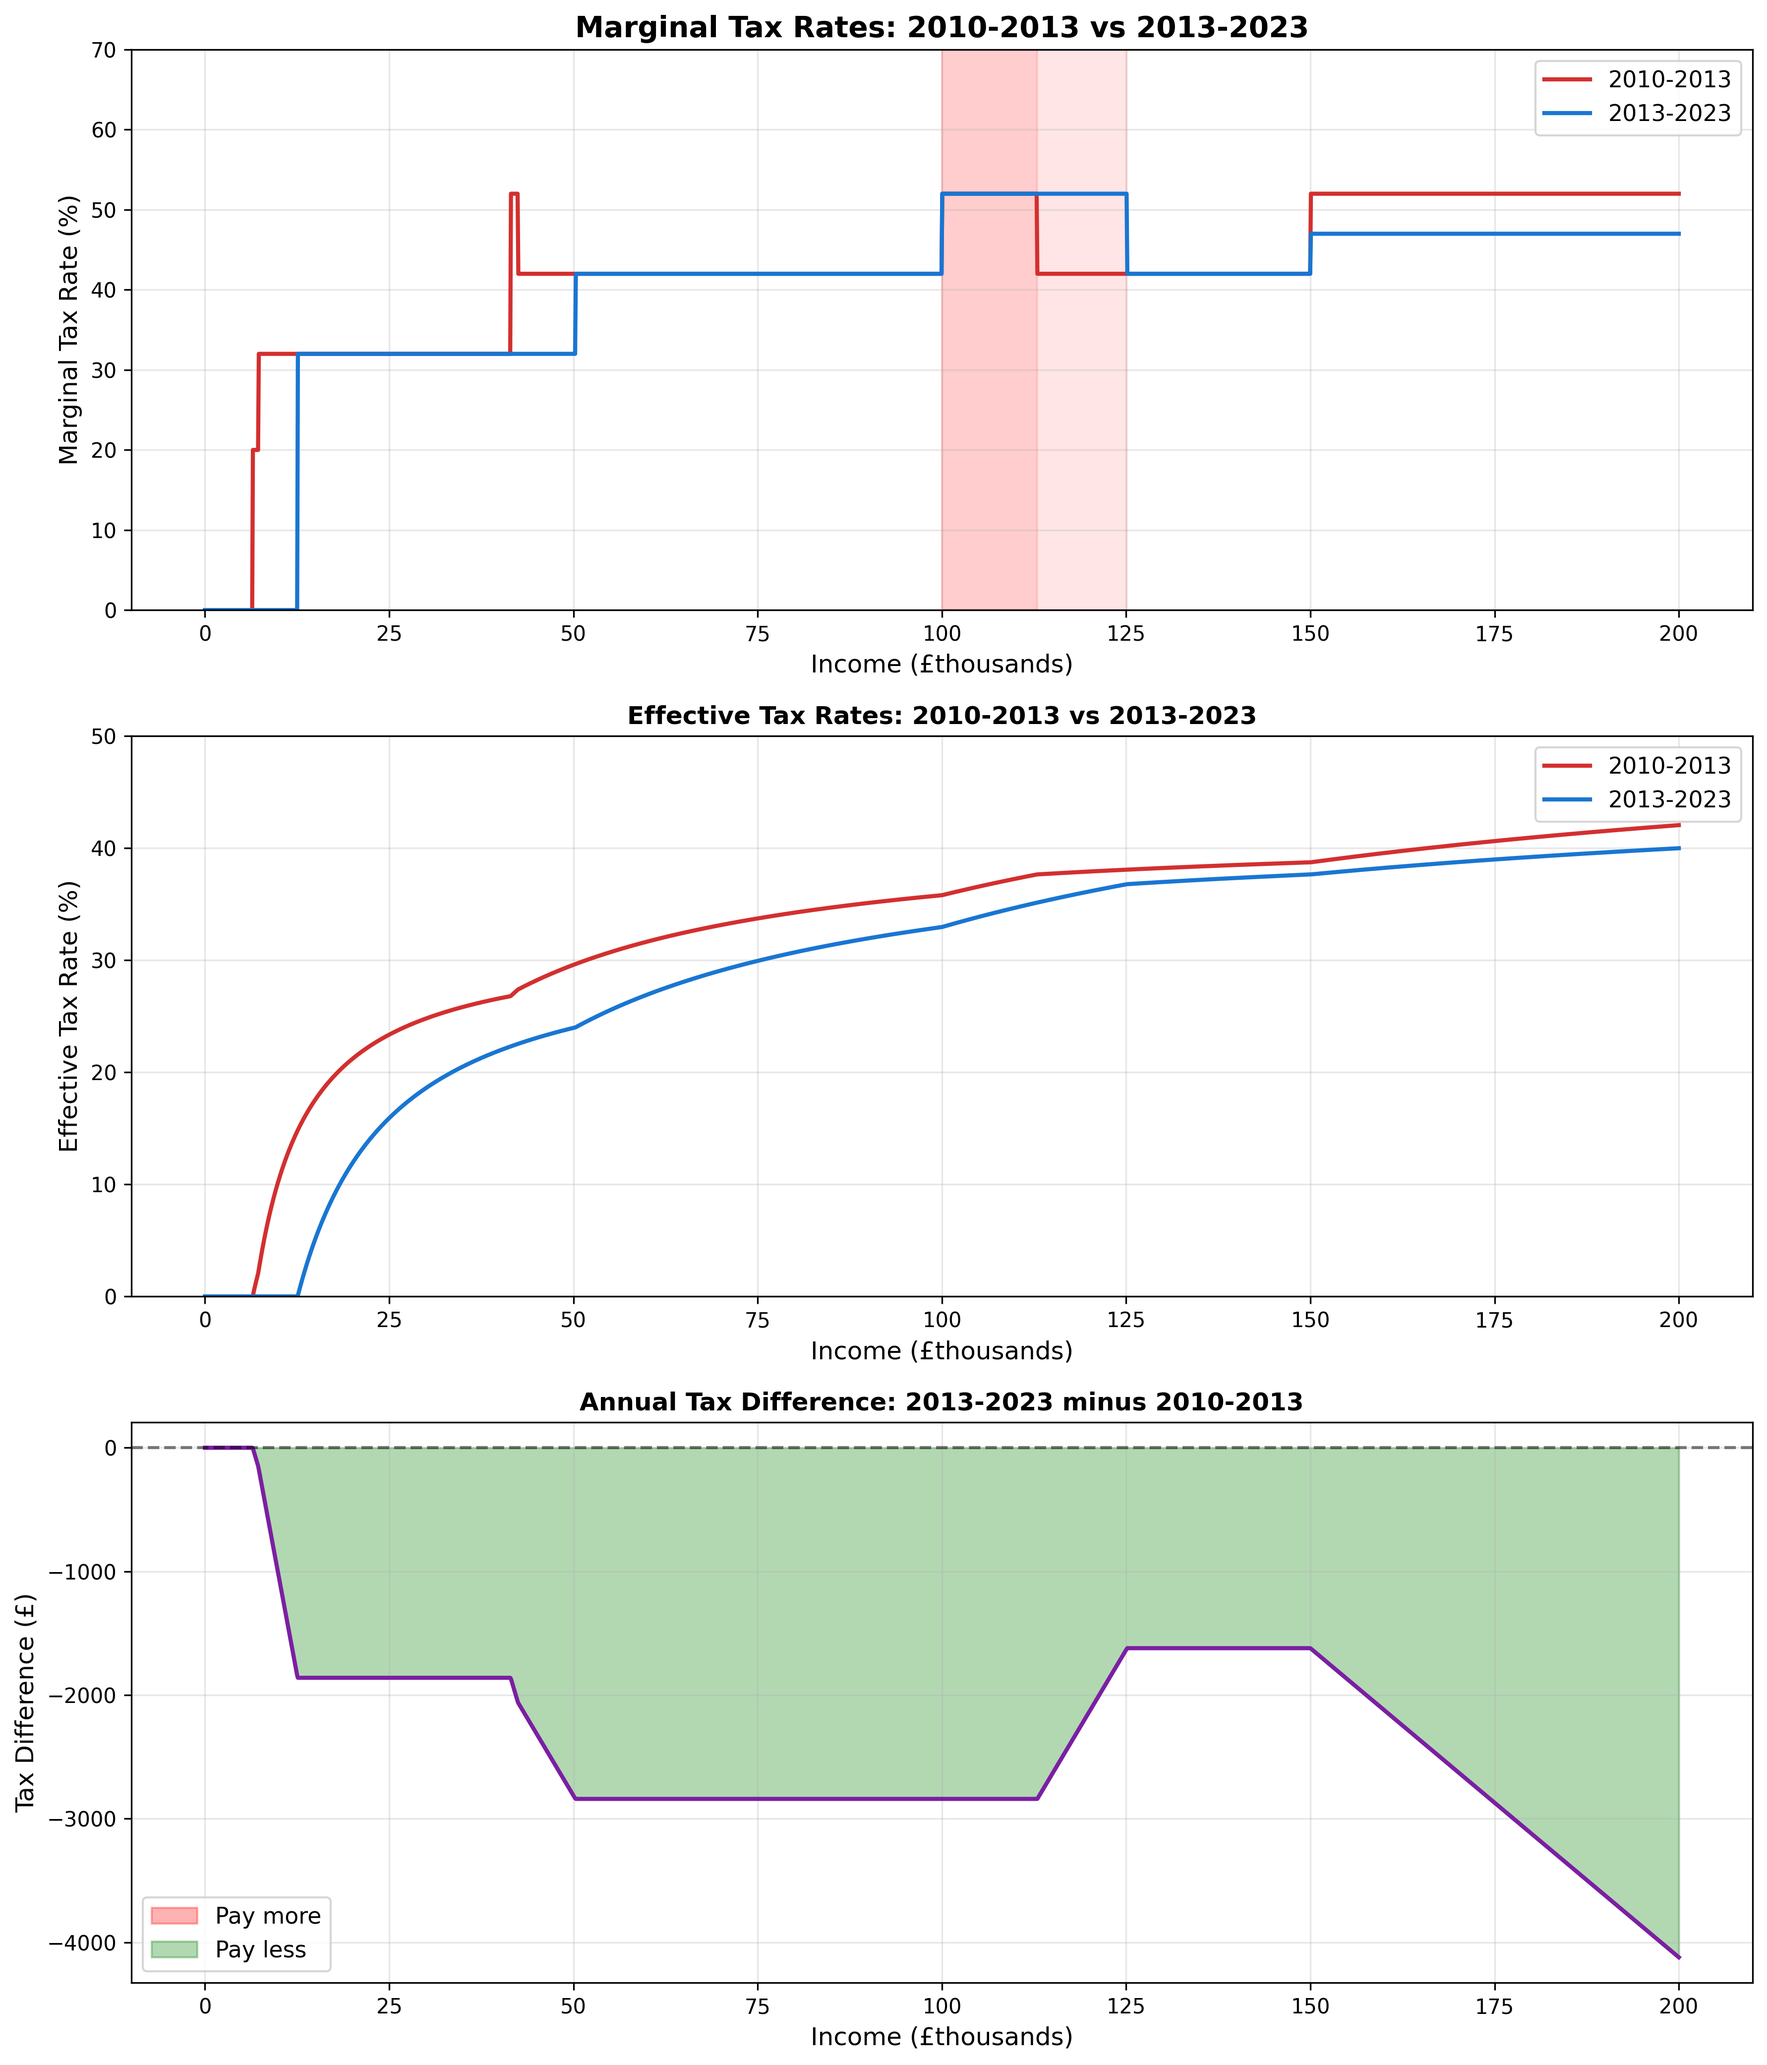
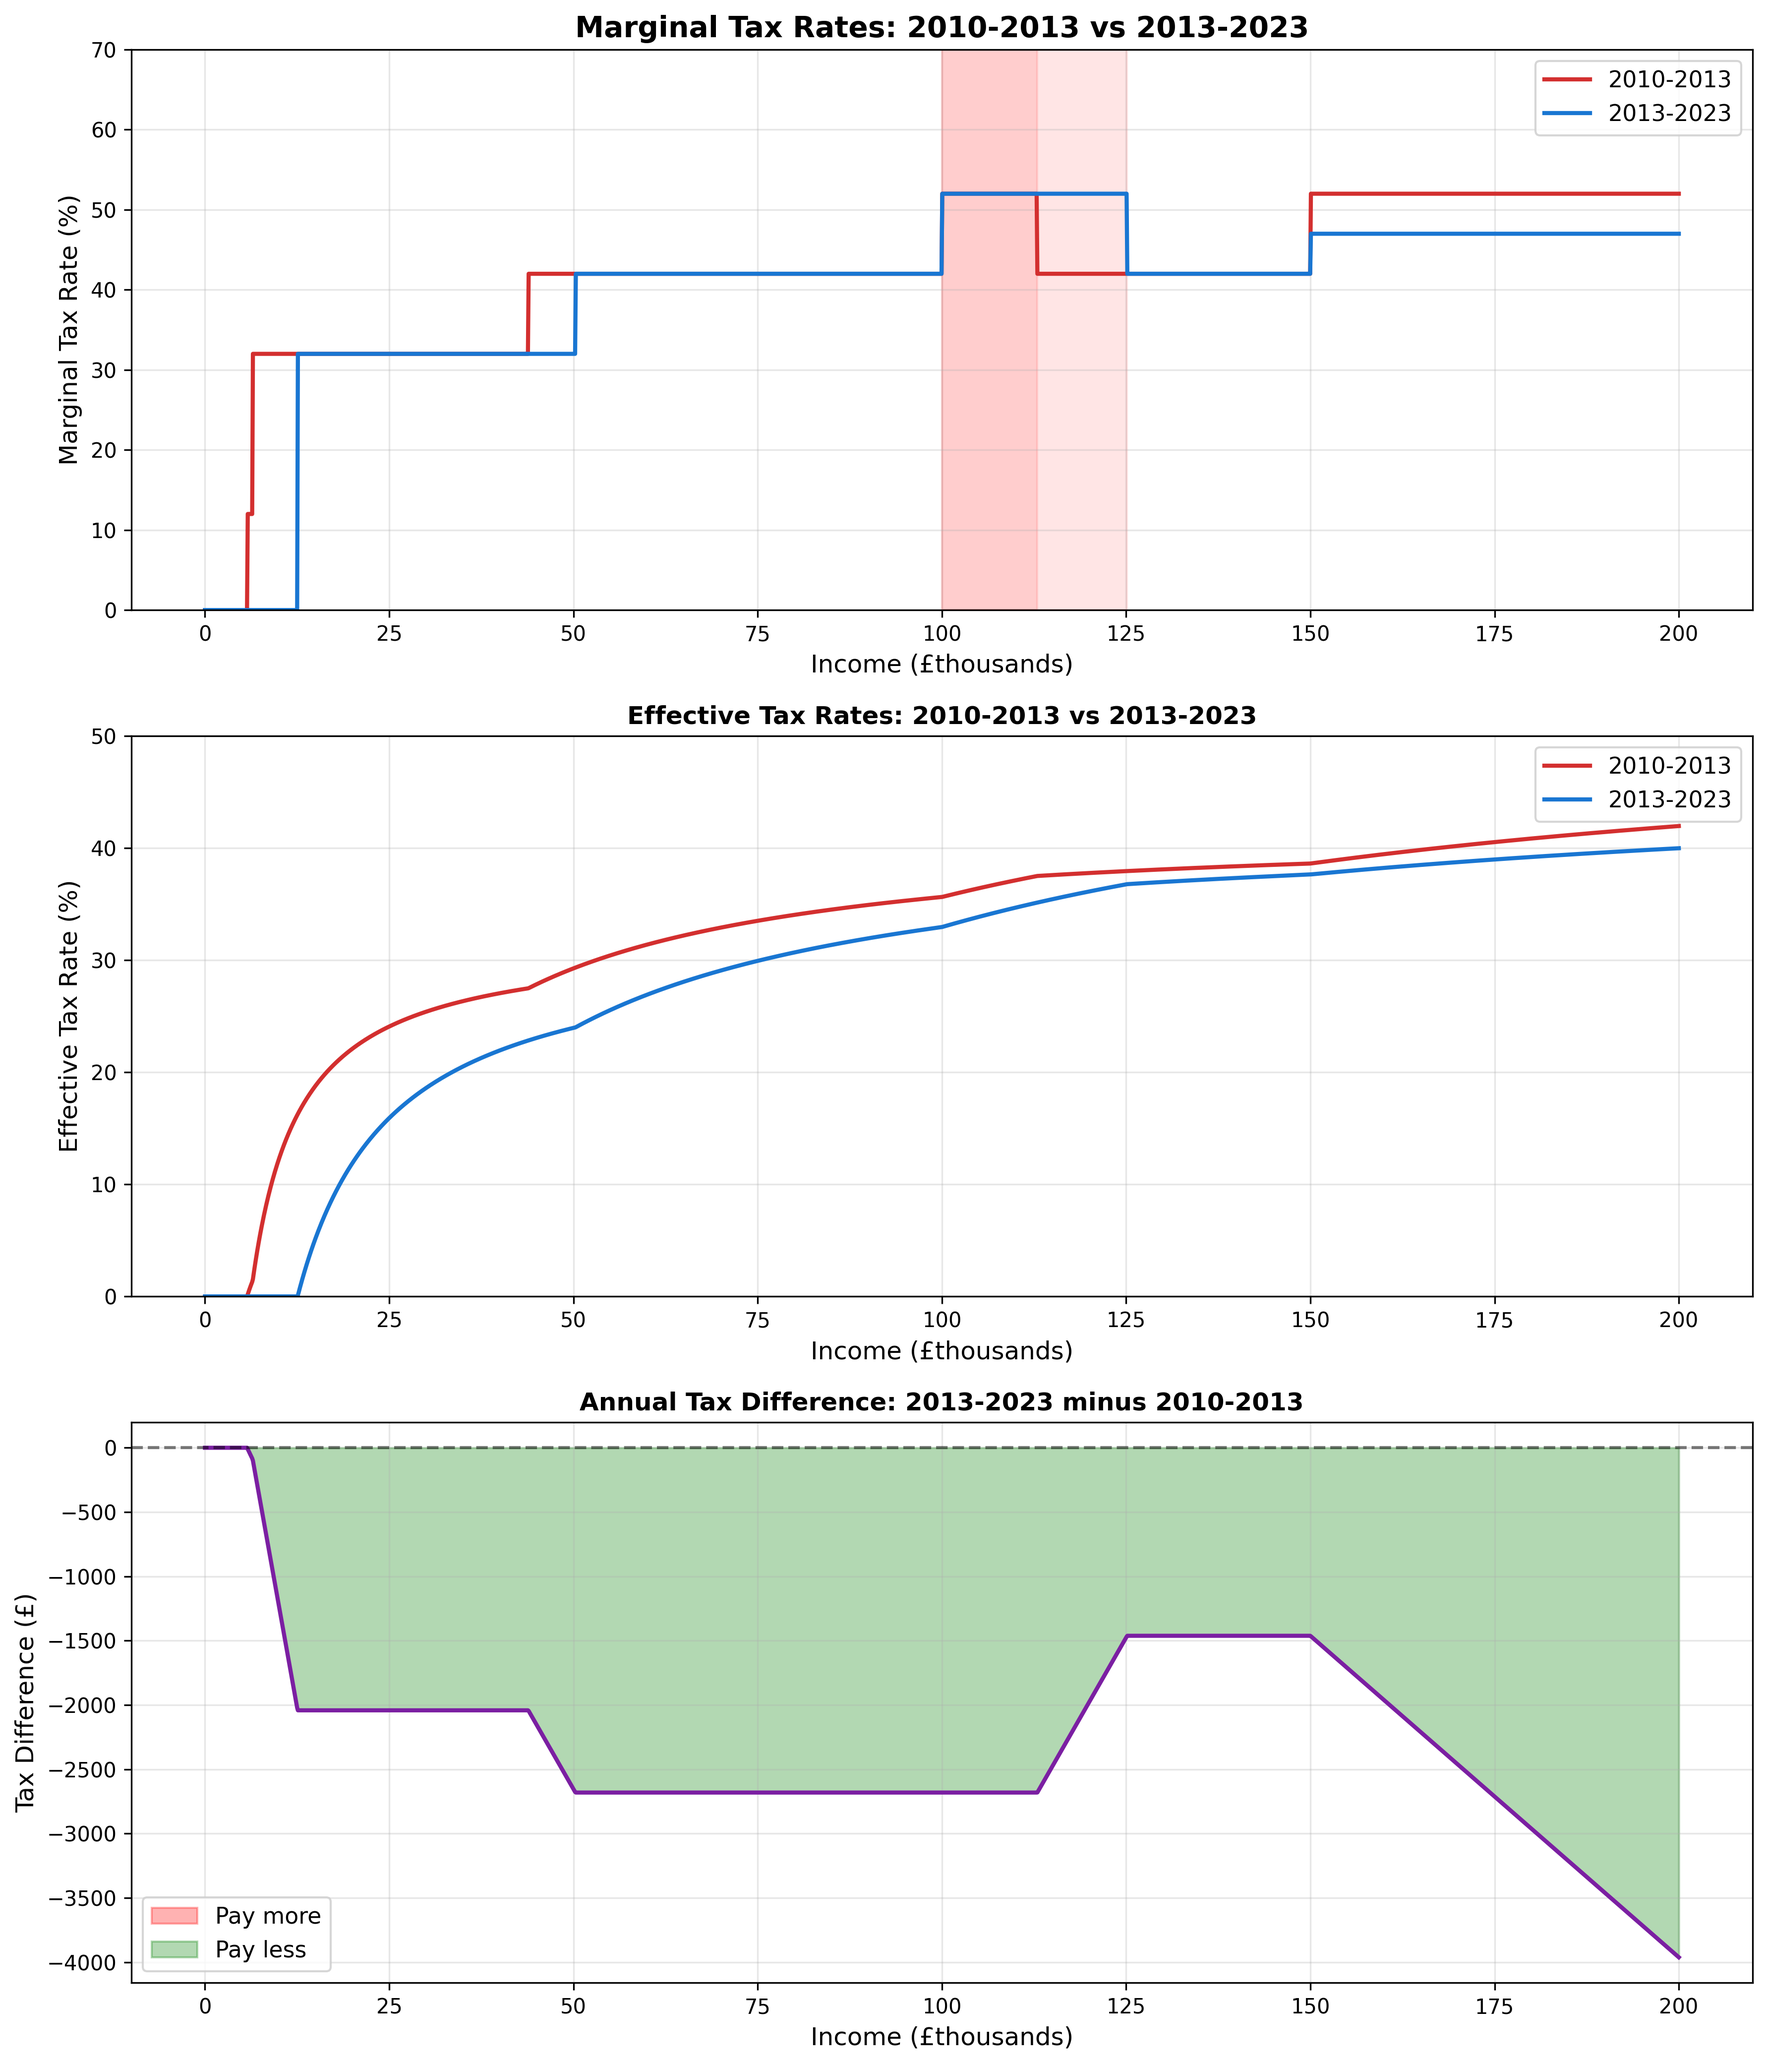
Fix a few issues and regenerate article.

diff --git a/src/uktax/main.py b/src/uktax/main.py
@@ -1,11 +1,32 @@
 """Main CLI for UK Tax calculations and visualizations."""
 import argparse
+import sys
+import os
+
+# Ensure interactive backend for CLI BEFORE any matplotlib.pyplot imports
+import matplotlib
+if not os.environ.get('MPLBACKEND'):
+    current_backend = matplotlib.get_backend()
+    if current_backend.lower() == 'agg':
+        # Try to switch to an interactive backend BEFORE importing pyplot
+        for backend in ['TkAgg', 'Qt5Agg', 'GTK3Agg', 'MacOSX']:
+            try:
+                matplotlib.use(backend, force=True)
+                # Verify it worked by checking the backend
+                if matplotlib.get_backend().lower() != 'agg':
+                    break
+            except:
+                continue
+
+# NOW import pyplot - backend is set
 import matplotlib.pyplot as plt
 import numpy as np
-from uktax import (IncomeDistributionData, IncomeHistogram, UK_INCOME_2023,
-                   UKTaxCalculator2023, UKTaxCalculatorReformed, 
-                   IncomeDistributionVisualizer, TaxVisualization,
-                   optimize_additional_rate_for_revenue)
+
+# Import uktax components
+from uktax.income_data import IncomeDistributionData, IncomeHistogram, UK_INCOME_2023
+from uktax.uk_tax_calculator import UKTaxCalculator2023, UKTaxCalculatorReformed, optimize_additional_rate_for_revenue
+# Import visualizations AFTER backend is set
+from uktax.visualizations import IncomeDistributionVisualizer, TaxVisualization
 
 
 def create_distribution_and_histogram(population_size=100000, bin_size=1000, max_income=202000):
@@ -144,7 +165,16 @@ def plot_cumulative_and_histogram_cmd(args):
         show_top_percent=True
     )
     
-    plt.show()
+    # Check if we have an interactive backend
+    backend = matplotlib.get_backend().lower()
+    if backend == 'agg':
+        # Non-interactive backend, save instead
+        output_file = 'income_distribution.png'
+        plt.savefig(output_file, dpi=150, bbox_inches='tight')
+        print(f"✓ Plot saved to {output_file} (no interactive display available)")
+        print(f"  Tip: Install tkinter for interactive plots: sudo apt-get install python3-tk")
+    else:
+        plt.show()
 
 
 def plot_tax_analysis_cmd(args):
@@ -155,7 +185,16 @@ def plot_tax_analysis_cmd(args):
     income_range = np.arange(0, args.max_income_range, args.income_step)
     fig, axes = visualizer.plot_tax_analysis(income_range=income_range)
     
-    plt.show()
+    # Check if we have an interactive backend
+    backend = matplotlib.get_backend().lower()
+    if backend == 'agg':
+        # Non-interactive backend, save instead
+        output_file = 'tax_analysis.png'
+        plt.savefig(output_file, dpi=150, bbox_inches='tight')
+        print(f"✓ Plot saved to {output_file} (no interactive display available)")
+        print(f"  Tip: Install tkinter for interactive plots: sudo apt-get install python3-tk")
+    else:
+        plt.show()
 
 
 def plot_reform_cmd(args):
@@ -361,7 +400,16 @@ def plot_reform_cmd(args):
     print(f"{'Effective Rate':<40} {original_results['effective_rate']:>14.2f}% {reformed_results['effective_rate']:>14.2f}%")
     print("="*70 + "\n")
     
-    plt.show()
+    # Check if we have an interactive backend
+    backend = matplotlib.get_backend().lower()
+    if backend == 'agg':
+        # Non-interactive backend, save instead
+        output_file = 'tax_reform_comparison.png'
+        plt.savefig(output_file, dpi=150, bbox_inches='tight')
+        print(f"✓ Plot saved to {output_file} (no interactive display available)")
+        print(f"  Tip: Install tkinter for interactive plots: sudo apt-get install python3-tk\n")
+    else:
+        plt.show()
 
 
 def main():

diff --git a/src/uktax/uk_tax_calculator.py b/src/uktax/uk_tax_calculator.py
@@ -202,7 +202,7 @@ class UKTaxCalculator2010(TaperablePAMixin, UKTaxCalculatorBase):
     
     # Override default parameters for this period
     personal_allowance: float = field(default=6475)
-    basic_rate_threshold: float = field(default=35000 + 6475)  # ~£35,000 taxable + PA
+    basic_rate_threshold: float = field(default=37400 + 6475)  # £37,400 taxable + PA = £43,875
     higher_rate_threshold: float = field(default=150000)  # Additional rate starts at £150k
     
     basic_rate: float = field(default=0.20)
@@ -214,8 +214,8 @@ class UKTaxCalculator2010(TaperablePAMixin, UKTaxCalculatorBase):
     taper_rate: float = field(default=0.5)
     
     # National Insurance thresholds and rates for this period
-    ni_lower_threshold: float = field(default=7225)  # Approximate for 2010
-    ni_upper_threshold: float = field(default=42475)  # UEL aligned to 40% threshold
+    ni_lower_threshold: float = field(default=5715)  # Primary Threshold 2010/11
+    ni_upper_threshold: float = field(default=43875)  # UEL aligned with higher rate threshold
     ni_standard_rate: float = field(default=0.12)  # Increased from 11%
     ni_higher_rate: float = field(default=0.02)  # Increased from 1%
 

diff --git a/src/uktax/__init__.py b/src/uktax/__init__.py
@@ -19,10 +19,9 @@ from uktax.uk_tax_calculator import (
     TaxBracket,
     optimize_additional_rate_for_revenue
 )
-from uktax.visualizations import (
-    IncomeDistributionVisualizer, 
-    TaxVisualization
-)
+
+# Visualization classes are not imported by default to avoid importing matplotlib
+# Import them explicitly when needed: from uktax.visualizations import ...
 
 __version__ = "0.1.0"
 
@@ -39,6 +38,4 @@ __all__ = [
     "UKTaxCalculatorReformed",
     "TaxBracket",
     "optimize_additional_rate_for_revenue",
-    "IncomeDistributionVisualizer",
-    "TaxVisualization",
 ]

diff --git a/generate_article_analysis.py b/generate_article_analysis.py
@@ -1,6 +1,9 @@
 #!/usr/bin/env python3
 """Generate all analysis, plots, and data for the comprehensive article."""
 
+import matplotlib
+matplotlib.use('Agg')  # Use non-interactive backend for batch plot generation
+
 import numpy as np
 import matplotlib.pyplot as plt
 from pathlib import Path

diff --git a/README.md b/README.md
@@ -14,15 +14,43 @@ The UK tax system has a quirk where the personal allowance (£12,570) is withdra
 
 ## Installation
 
+**Requirements**: Python 3.10+ (Python 3.12+ recommended for interactive plotting)
+
 ```bash
 git clone https://github.com/PeterWurmsdobler/uktax.git
 cd uktax
+
+# If using pyenv (recommended - includes tkinter for interactive plots)
+~/.pyenv/shims/python -m venv .venv
+source .venv/bin/activate
+pip install -e .
+
+# Or use system Python
+python3 -m venv .venv
+source .venv/bin/activate
 pip install -e .
 ```
 
+**Troubleshooting interactive plots:**
+
+If CLI plot commands save PNG files instead of showing interactive windows, your Python doesn't have tkinter:
+
+```bash
+# Ubuntu/Debian
+sudo apt-get install python3-tk
+
+# Fedora/RHEL
+sudo dnf install python3-tkinter
+
+# macOS (via Homebrew)
+brew install python-tk
+```
+
+Alternatively, use pyenv with Python 3.12+ which includes tkinter by default.
+
 ## CLI Usage
 
-The `uktax` command provides four subcommands:
+The `uktax` command provides four subcommands. Interactive plots will display in a window (if tkinter is available) or save to PNG files automatically.
 
 ### 1. Calculate Tax Revenue
 ```bash
@@ -54,6 +82,15 @@ uktax plot-reform --scenario fixed-rate --fixed-rate-percent 45
 Compares current system vs reformed system (no PA taper, higher rate threshold at £100k).
 
 **Key Finding**: Revenue-neutral reform requires **46.9% additional rate** (up from 45%), eliminates the trap, and affects only 4% of taxpayers.
+
+## Features
+
+- **5 Historical Tax Calculators**: Pre-2010, 2010-2013, 2013-2023, 2023-Present, Reformed
+- **Interactive CLI**: Plot income distributions and tax rates with live visualization
+- **Revenue Optimization**: Find revenue-neutral additional rates using scipy optimization
+- **Comprehensive Validation**: 63 automated tests ensure calculation accuracy
+- **Publication-Ready**: Generate article with plots and PDF (article.pdf, 12 pages)
+- **Real Data**: Based on HMRC income distribution data (1999/00-2022/23)
 
 ## Python API
 
@@ -132,13 +169,19 @@ from uktax import (
 ```
 uktax/
 ├── src/uktax/
+│   ├── __init__.py              # Package initialization
 │   ├── income_data.py           # Income distribution classes
 │   ├── uk_tax_calculator.py     # Tax calculators (5 historical periods)
 │   ├── visualizations.py        # Plotting utilities
-│   └── scripts/                 # CLI entry points
-├── tests/                       # Test suite
+│   └── main.py                  # CLI entry point
+├── tests/
+│   └── test_comprehensive_validation.py  # 63 validation tests
+├── article_assets/              # Generated plots for article
 ├── article.md                   # Full analysis and reform proposals
+├── article.pdf                  # PDF version of article (12 pages)
 ├── generate_article_analysis.py # Generates all plots and data
+├── pyproject.toml               # Package configuration
+├── .venv/                       # Virtual environment
 └── README.md                    # This file
 ```
 
@@ -189,13 +232,54 @@ Run comprehensive validation:
 python tests/test_comprehensive_validation.py
 ```
 
-63 tests covering:
-- Marginal rate accuracy
+**Test Suite**: 63 tests covering:
+- Marginal rate accuracy across all income levels
 - Effective rate consistency
-- PA taper correctness
-- Revenue optimization
-- Monotonicity (tax increases with income)
-- Edge cases
+- Personal allowance taper correctness
+- Revenue optimization algorithms
+- Tax monotonicity (tax increases with income)
+- Edge cases and boundary conditions
+- Historical calculator accuracy
+
+All tests passing ✓
+
+## Generating Article Assets
+
+To regenerate all plots and the article PDF:
+
+### Regenerate All Plots (9 PNGs)
+```bash
+python generate_article_analysis.py
+```
+
+This generates all analysis plots in `article_assets/`:
+- Current system 60% trap visualization
+- Historical income distributions (2009/10, 2012/13, 2022/23)
+- System comparisons (Pre-2010 vs 2010, 2010 vs 2013, 2013 vs 2023)
+- Reform comparisons (Current vs Revenue-Neutral, Current vs 45% Fixed)
+
+**Output**: 9 PNG files (~280-475KB each) ready for article inclusion.
+
+### Regenerate Article PDF
+```bash
+sed 's/✅/YES/g; s/⚠/WARNING/g; s/❌/NO/g' article.md > article_for_pdf.md && \
+pandoc article_for_pdf.md \
+  -o article.pdf \
+  --pdf-engine=pdflatex \
+  -V documentclass=article \
+  -V geometry:"top=0.5in,bottom=0.5in,left=0.6in,right=0.6in" \
+  -V fontsize=10pt \
+  -V colorlinks=true \
+  -V linkcolor=blue \
+  -V urlcolor=blue \
+  -V linestretch=1.0 && \
+rm article_for_pdf.md && \
+echo "✓ PDF regenerated (12 pages)" && \
+ls -lh article.pdf
+```
+
+**Requirements**: `pandoc` and `pdflatex` (from TeX Live or similar)
+**Output**: Compact 12-page PDF (3.3MB) with proper heading structure and all embedded plots.
 
 ## Dependencies
 

diff --git a/article.md b/article.md
@@ -141,6 +141,8 @@ An alternative reform maintains the current 45% additional rate while removing t
 
 This variant is highly politically favorable as it maintains the current 45% top rate while eliminating the 60% trap. Remarkably, **nobody pays more** under this reform - all changes are either neutral or beneficial to taxpayers. This is possible because removing the taper brings more income into the tax base at consistent rates, generating £4.0 million less revenue overall - a modest cost for eliminating a significant distortion in the tax system.
 
+**Political Considerations:** While this reform is simpler to communicate (maintaining the familiar 45% rate) and creates no losers, it faces a significant political challenge: the benefits accrue exclusively to high earners (those earning £100k-£200k+). The 3,993 winners are all in the top 5% of the income distribution. In an environment of fiscal constraint and public service pressures, a reform that reduces revenue while benefiting only the wealthy may struggle to gain political support, even though it corrects a genuine system flaw. The revenue-neutral reform (Section 2.1), while requiring a higher rate, has a stronger political case as it demonstrates that fixing the trap need not cost the exchequer anything.
+
 ## 3. Methodology: Top 1% Income Assumption
 
 ### The Data Constraint
